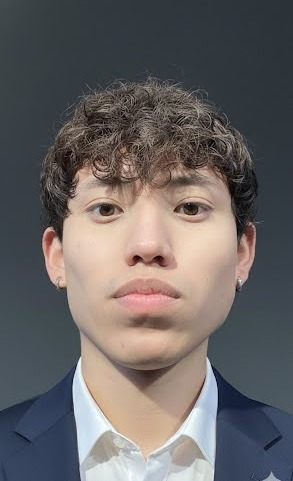
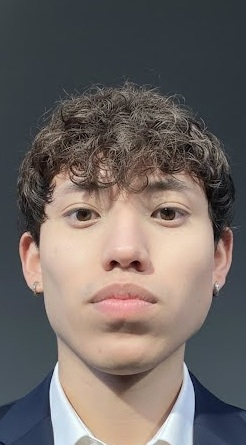
Add files via upload

diff --git a/index.html b/index.html
@@ -1,158 +1,43 @@
-<!DOCTYPE html>
-<html lang="en">
-<head>
-<meta charset="UTF-8">
-<meta name="viewport" content="width=device-width, initial-scale=1.0">
+<!doctype html><html lang="en"><head>
+<meta charset="utf-8"><meta name="viewport" content="width=device-width,initial-scale=1">
 <meta name="description" content="Nestor Gavilanes — Psychology student with experience in AI evaluation, data annotation and academic research.">
 <title>Nestor Gavilanes | Psychology × AI</title>
-<link rel="preconnect" href="https://fonts.googleapis.com">
-<link rel="preconnect" href="https://fonts.gstatic.com" crossorigin>
+<link rel="preconnect" href="https://fonts.googleapis.com"><link rel="preconnect" href="https://fonts.gstatic.com" crossorigin>
 <link href="https://fonts.googleapis.com/css2?family=DM+Sans:wght@400;500;600;700&family=Space+Grotesk:wght@500;600;700&display=swap" rel="stylesheet">
-<link rel="stylesheet" href="style.css">
-</head>
-<body>
-<a class="skip" href="#main">Skip to content</a>
+<link rel="stylesheet" href="style.css"></head><body>
+<header class="nav"><a class="brand" href="#home">NG<span>.</span></a>
+<nav><a href="#about">About</a><a href="#experience">Experience</a><a href="#projects">Projects</a><a href="#skills">Skills</a><a href="#education">Education</a><a href="#contact">Contact</a></nav>
+<div class="navlinks"><a href="https://www.linkedin.com/in/néstor-gavilanes-854b54412" target="_blank">in</a><a href="https://github.com/Nestorrh-dev" target="_blank">GH</a><a href="mailto:nestor.gavilanes.rh@gmail.com">✉</a><a class="navbtn" href="#contact">Let's connect ↗</a></div></header>
+<main>
+<section id="home" class="hero"><div>
+<div class="eyebrow">PSYCHOLOGY × ARTIFICIAL INTELLIGENCE</div>
+<h1>Understanding<br>people.<br><span>Improving AI.</span></h1>
+<p class="lead">I'm Nestor Gavilanes, a Psychology student with experience in AI data annotation, evaluation and academic research. I'm interested in the intersection of human behavior, research and artificial intelligence.</p>
+<div class="actions"><a class="btn primary" href="#projects">View my work →</a><a class="btn secondary" href="#contact">Contact me →</a></div>
+<div class="socials"><a href="https://www.linkedin.com/in/néstor-gavilanes-854b54412" target="_blank">LinkedIn ↗</a><a href="https://github.com/Nestorrh-dev" target="_blank">GitHub ↗</a><a href="mailto:nestor.gavilanes.rh@gmail.com">nestor.gavilanes.rh@gmail.com</a></div>
+</div>
+<aside class="portrait-card"><div class="portrait"><img src="profile.jpg" alt="Professional portrait of Nestor Gavilanes"></div>
+<div class="portrait-info"><small>CURRENT FOCUS</small><h2>Human behavior<br>& AI systems</h2><div class="steps"><div><b>01</b><span>Analyze</span></div><div><b>02</b><span>Evaluate</span></div><div><b>03</b><span>Improve</span></div></div></div></aside></section>
 
-<header class="nav">
-  <a class="brand" href="#top">NG<span>.</span></a>
-  <nav aria-label="Primary">
-    <a href="#about">About</a>
-    <a href="#experience">Experience</a>
-    <a href="#research">Research</a>
-    <a href="#projects">Projects</a>
-    <a href="#skills">Skills</a>
-    <a href="#education">Education</a>
-  </nav>
-  <a class="nav-button" href="mailto:nestor.gavilanes.rh@gmail.com">Let's connect ↗</a>
-</header>
+<section id="about" class="section about"><div class="label">01 — ABOUT ME</div><div><h2>Psychology student<br>& <span>AI enthusiast.</span></h2><p>I'm building a career at the intersection of psychological knowledge, research and technology. My focus is understanding human behavior while developing practical experience with AI systems and evaluation.</p></div></section>
 
-<main id="main">
-<section id="top" class="hero">
-  <div class="hero-copy">
-    <p class="eyebrow">PSYCHOLOGY × ARTIFICIAL INTELLIGENCE</p>
-    <h1>Understanding people.<br><span>Improving AI.</span></h1>
-    <p class="lead">
-      I'm Nestor Gavilanes, a Psychology student at UADE with experience in AI data
-      annotation, evaluation and academic research. I’m interested in the intersection
-      of human behavior, research and artificial intelligence.
-    </p>
-    <div class="actions">
-      <a class="btn primary" href="#projects">View my work</a>
-      <a class="btn secondary" href="mailto:nestor.gavilanes.rh@gmail.com">Contact me</a>
-    </div>
-    <div class="socials">
-      <a href="https://www.linkedin.com/in/néstor-gavilanes-854b54412" target="_blank" rel="noopener">LinkedIn ↗</a>
-      <a href="https://github.com/Nestorrh-dev" target="_blank" rel="noopener">GitHub ↗</a>
-      <a href="mailto:nestor.gavilanes.rh@gmail.com">nestor.gavilanes.rh@gmail.com</a>
-    </div>
-  </div>
+<section id="experience" class="section"><div class="label">02 — EXPERIENCE</div><div class="heading"><h2>People, research<br><span>& AI.</span></h2><p>Real experience presented clearly and without overstating roles or responsibilities.</p></div>
+<div class="cards">
+<article><small>01 · AI · REMOTE</small><h3>AI Data Annotation & Evaluation</h3><p>Experience with structured annotation and evaluation tasks where accuracy, consistency and careful interpretation of guidelines are essential.</p><div class="chips"><i>Annotation</i><i>Evaluation</i><i>Quality</i></div></article>
+<article class="featured"><small>02 · UADE · 1 YEAR</small><h3>Academic Research</h3><p><strong>One year of research experience at my faculty</strong>, participating in academic research activities and developing skills in analysis, information handling and collaborative work.</p><div class="chips"><i>Research</i><i>Analysis</i><i>Academic work</i></div></article>
+<article><small>03 · DEVELOPMENT</small><h3>Continuous Learning</h3><p>Continuing to build knowledge across psychology, research, language, technology and AI while progressing through my degree.</p><div class="chips"><i>Psychology</i><i>AI</i><i>Research</i></div></article>
+</div></section>
 
-  <div class="portrait-wrap" aria-label="Professional portrait of Nestor Gavilanes">
-    <div class="portrait-accent"></div>
-    <div class="portrait">
-      <img src="profile.jpg" alt="Professional portrait of Nestor Gavilanes">
-    </div>
-    <div class="portrait-caption">
-      <span>Psychology</span>
-      <span>AI Evaluation</span>
-      <span>Research</span>
-    </div>
-  </div>
-</section>
+<section id="projects" class="section"><div class="label">03 — PROJECTS</div><div class="heading"><h2>Selected work &<br><span>areas of interest.</span></h2><p>A space designed to grow with new academic, AI and professional projects.</p></div>
+<div class="projects"><article class="large"><b>01</b><div><small>AI · DATA QUALITY</small><h3>AI Evaluation & Annotation</h3><p>Structured assessment of AI outputs and data according to task-specific quality criteria.</p></div></article>
+<article><b>02</b><div><small>PSYCHOLOGY × TECHNOLOGY</small><h3>Human Behavior & AI</h3><p>Exploring how psychological knowledge can contribute to better human-centered AI systems.</p></div></article>
+<article><b>03</b><div><small>ACADEMIC RESEARCH</small><h3>Research Work</h3><p>Academic research experience developed at my faculty over one year.</p></div></article></div>
+<div class="future"><b>FUTURE</b><span>This section can later include professional internships, academic projects and future psychological practice when appropriate.</span></div></section>
 
-<section id="about" class="section about">
-  <div class="section-label">01 — ABOUT</div>
-  <div>
-    <h2>Psychology student<br><span>& AI enthusiast.</span></h2>
-    <p>
-      I’m studying Psychology at UADE while developing practical experience in AI-related
-      work. My interests center on human behavior, cognition, language, research and the
-      quality of interactions between people and intelligent systems.
-    </p>
-  </div>
-</section>
+<section id="skills" class="section skills"><div class="label">04 — SKILLS</div><div class="skillgrid"><div><b>AI Evaluation</b><span>Response quality & consistency</span></div><div><b>Data Annotation</b><span>Structured labeling & guidelines</span></div><div><b>Psychology</b><span>Human behavior & cognition</span></div><div><b>Research</b><span>Academic & analytical work</span></div><div><b>Critical Thinking</b><span>Interpretation & quality checking</span></div><div><b>Communication</b><span>Clear written communication</span></div></div></section>
 
-<section id="experience" class="section">
-  <div class="section-label">02 — EXPERIENCE</div>
-  <div class="cards two">
-    <article class="card">
-      <div class="icon">AI</div>
-      <div>
-        <p class="kicker">REMOTE · AI PROJECTS</p>
-        <h3>AI Data Annotation & Evaluation</h3>
-        <p>Experience working with structured annotation and evaluation tasks where accuracy, consistency and careful interpretation of guidelines are essential.</p>
-      </div>
-      <div class="chips"><span>Annotation</span><span>Evaluation</span><span>Quality</span></div>
-    </article>
+<section id="education" class="section"><div class="label">05 — EDUCATION</div><div class="edu"><div><small>UNIVERSIDAD ARGENTINA DE LA EMPRESA</small><h2>Psychology</h2><p>Undergraduate student · Argentina</p></div><b>UADE</b></div></section>
 
-    <article id="research" class="card">
-      <div class="icon">R</div>
-      <div>
-        <p class="kicker">UADE · FACULTY RESEARCH</p>
-        <h3>Research Experience</h3>
-        <p><strong>1 year of research experience at my faculty</strong>, participating in academic research activities and developing skills in analysis, information handling and collaborative work.</p>
-      </div>
-      <div class="chips"><span>Research</span><span>Analysis</span><span>Academic Work</span></div>
-    </article>
-  </div>
-</section>
-
-<section id="projects" class="section">
-  <div class="section-label">03 — PROJECTS</div>
-  <div class="section-head">
-    <h2>Selected work & areas of interest.</h2>
-    <p>Focused on practical work where psychology, research and AI can meet.</p>
-  </div>
-  <div class="project-grid">
-    <article class="project">
-      <span>01</span><div><p class="kicker">AI · DATA QUALITY</p><h3>AI Evaluation & Annotation</h3><p>Structured assessment of AI outputs and data according to task-specific quality criteria.</p></div>
-    </article>
-    <article class="project">
-      <span>02</span><div><p class="kicker">PSYCHOLOGY × TECHNOLOGY</p><h3>Human Behavior & AI</h3><p>Exploring how psychological knowledge can inform better human-centered AI systems.</p></div>
-    </article>
-    <article class="project">
-      <span>03</span><div><p class="kicker">RESEARCH</p><h3>Academic Research</h3><p>One year of faculty research experience supporting academic work and analytical processes.</p></div>
-    </article>
-  </div>
-</section>
-
-<section id="skills" class="section skills">
-  <div class="section-label">04 — SKILLS</div>
-  <div class="skill-grid">
-    <div><b>AI Evaluation</b><span>Response quality & consistency</span></div>
-    <div><b>Data Annotation</b><span>Structured labeling & guidelines</span></div>
-    <div><b>Psychology</b><span>Human behavior & cognition</span></div>
-    <div><b>Research</b><span>Academic & analytical work</span></div>
-    <div><b>Critical Thinking</b><span>Interpretation & quality checking</span></div>
-    <div><b>Communication</b><span>Clear written communication</span></div>
-  </div>
-</section>
-
-<section id="education" class="section education">
-  <div class="section-label">05 — EDUCATION</div>
-  <div class="education-card">
-    <div>
-      <p class="kicker">UNIVERSIDAD ARGENTINA DE LA EMPRESA</p>
-      <h2>Psychology</h2>
-      <p>Undergraduate student · Argentina</p>
-    </div>
-    <strong>UADE</strong>
-  </div>
-</section>
-
-<section id="contact" class="contact">
-  <p class="eyebrow">06 — CONTACT</p>
-  <h2>Let's work together.</h2>
-  <p>Open to opportunities in AI evaluation, data annotation, research and psychology-related projects.</p>
-  <div class="actions center">
-    <a class="btn primary" href="mailto:nestor.gavilanes.rh@gmail.com">Email me ↗</a>
-    <a class="btn secondary" href="https://www.linkedin.com/in/néstor-gavilanes-854b54412" target="_blank" rel="noopener">LinkedIn ↗</a>
-    <a class="btn secondary" href="https://github.com/Nestorrh-dev" target="_blank" rel="noopener">GitHub ↗</a>
-  </div>
-</section>
-</main>
-
-<footer><span>© <span id="year"></span> Nestor Gavilanes</span><span>Psychology × AI</span></footer>
-<script>document.getElementById("year").textContent=new Date().getFullYear();</script>
-</body>
-</html>
+<section id="contact" class="contact"><div class="eyebrow">06 — CONTACT</div><h2>Let's work together.</h2><p>Open to opportunities in AI evaluation, data annotation, research and psychology-related projects.</p><div class="actions center"><a class="btn primary" href="mailto:nestor.gavilanes.rh@gmail.com">Email me ↗</a><a class="btn secondary" href="https://www.linkedin.com/in/néstor-gavilanes-854b54412" target="_blank">LinkedIn ↗</a><a class="btn secondary" href="https://github.com/Nestorrh-dev" target="_blank">GitHub ↗</a></div></section>
+</main><footer>© <span id="year"></span> Nestor Gavilanes <span>Psychology × AI</span></footer>
+<script>document.getElementById('year').textContent=new Date().getFullYear()</script></body></html>

diff --git a/style.css b/style.css
@@ -1,14 +1,7 @@
-*{box-sizing:border-box}html{scroll-behavior:smooth}body{margin:0;background:#090a0b;color:#f4f2ed;font-family:"DM Sans",sans-serif;line-height:1.6;overflow-x:hidden}a{color:inherit;text-decoration:none}.skip{position:fixed;top:-60px;left:12px;background:#d8ff55;color:#090a0b;padding:10px;border-radius:8px;z-index:99}.skip:focus{top:12px}
-:root{--bg:#090a0b;--panel:#111314;--line:#282a2c;--muted:#999b98;--accent:#d8ff55;--max:1160px}
-.nav{height:76px;position:sticky;top:0;z-index:20;background:rgba(9,10,11,.9);backdrop-filter:blur(18px);border-bottom:1px solid var(--line);display:flex;align-items:center;justify-content:space-between;padding:0 5vw}.brand{font:700 1.35rem "Space Grotesk";letter-spacing:-.06em}.brand span{color:var(--accent)}.nav nav{display:flex;gap:28px;font-size:.86rem;color:#aaa}.nav nav a:hover{color:#fff}.nav-button{border:1px solid #3a3a3a;border-radius:999px;padding:9px 15px;font-size:.8rem}.nav-button:hover{border-color:var(--accent);color:var(--accent)}
-.hero{max-width:var(--max);margin:auto;min-height:calc(100vh - 76px);padding:80px 5vw;display:grid;grid-template-columns:minmax(0,1.15fr) minmax(290px,.75fr);gap:70px;align-items:center}.eyebrow,.section-label,.kicker{color:var(--accent);font-size:.7rem;letter-spacing:.15em;font-weight:700}.hero h1{font:700 clamp(3.6rem,7vw,6.5rem)/.93 "Space Grotesk";letter-spacing:-.07em;margin:18px 0 28px}.hero h1 span,.about h2 span{color:var(--accent)}.lead{color:var(--muted);font-size:1.05rem;max-width:650px}.actions{display:flex;gap:12px;flex-wrap:wrap;margin:28px 0}.btn{display:inline-flex;align-items:center;justify-content:center;border-radius:999px;padding:12px 20px;font-weight:700;font-size:.88rem;transition:.2s}.primary{background:var(--accent);color:#080909}.primary:hover{transform:translateY(-2px)}.secondary{border:1px solid #3a3a3a}.secondary:hover{border-color:#777;transform:translateY(-2px)}.socials{display:flex;gap:18px;flex-wrap:wrap;color:#aaa;font-size:.8rem}.socials a:hover{color:var(--accent)}
-.portrait-wrap{position:relative;justify-self:end;width:min(100%,350px);padding:14px}.portrait-accent{position:absolute;inset:7% 5% 3% 10%;border-radius:30px;background:var(--accent);opacity:.08;filter:blur(18px)}.portrait{position:relative;z-index:1;border:1px solid #36383a;border-radius:26px;overflow:hidden;background:#17191a;aspect-ratio:4/5;box-shadow:0 22px 70px rgba(0,0,0,.4)}.portrait img{width:100%;height:100%;display:block;object-fit:cover;object-position:center 28%;filter:saturate(.92) contrast(1.02)}.portrait-caption{position:relative;z-index:2;margin:-22px 12px 0;padding:14px 15px;border:1px solid var(--line);background:rgba(15,16,17,.92);backdrop-filter:blur(12px);border-radius:14px;display:flex;gap:12px;justify-content:space-between;font-size:.68rem;color:#aaa}.portrait-caption span:first-child{color:var(--accent)}
-.section{max-width:var(--max);margin:auto;padding:110px 5vw;border-top:1px solid var(--line)}.about{display:grid;grid-template-columns:.65fr 1.35fr;gap:80px}.about h2,.section-head h2{font:600 clamp(2.5rem,5vw,4.4rem)/1 "Space Grotesk";letter-spacing:-.06em;margin:0 0 24px}.about p{color:var(--muted);font-size:1.03rem;max-width:760px}
-.cards{display:grid;grid-template-columns:repeat(2,minmax(0,1fr));gap:14px;margin-top:38px}.card{border:1px solid var(--line);border-radius:20px;background:var(--panel);padding:28px;min-height:320px;display:flex;flex-direction:column;justify-content:space-between}.icon{width:42px;height:42px;border:1px solid #4b4d4f;border-radius:12px;display:grid;place-items:center;color:var(--accent);font-weight:700}.card h3{font:600 2rem/1.05 "Space Grotesk";margin:10px 0}.card p{color:var(--muted)}.chips{display:flex;gap:7px;flex-wrap:wrap}.chips span{border:1px solid var(--line);padding:5px 9px;border-radius:999px;font-size:.68rem;color:#aaa}
-.section-head{display:flex;justify-content:space-between;align-items:end;gap:30px;margin:10px 0 38px}.section-head p{color:var(--muted);max-width:300px}.project-grid{display:grid;grid-template-columns:repeat(2,minmax(0,1fr));gap:12px}.project{border:1px solid var(--line);border-radius:20px;background:var(--panel);min-height:250px;padding:26px;display:flex;justify-content:space-between;gap:20px}.project:first-child{grid-column:span 2;min-height:290px;background:linear-gradient(135deg,#171a17,#101112)}.project>span{color:var(--accent);font-size:.7rem}.project h3{font:600 1.9rem "Space Grotesk";margin:8px 0}.project p:not(.kicker){color:var(--muted);max-width:620px}
-.skills{display:grid;grid-template-columns:.65fr 1.35fr;gap:80px}.skill-grid{display:grid;grid-template-columns:repeat(2,minmax(0,1fr));border-top:1px solid var(--line)}.skill-grid div{padding:20px 8px;border-bottom:1px solid var(--line);display:flex;flex-direction:column}.skill-grid b{font-size:.95rem}.skill-grid span{font-size:.78rem;color:#777;margin-top:3px}
-.education-card{border:1px solid var(--line);background:var(--panel);border-radius:20px;padding:30px;display:flex;align-items:center;justify-content:space-between;gap:30px}.education-card h2{font:600 2.5rem "Space Grotesk";margin:6px 0}.education-card p{color:var(--muted);margin:0}.education-card>strong{color:var(--accent)}
-.contact{max-width:var(--max);margin:auto;text-align:center;padding:130px 5vw}.contact h2{font:600 clamp(3rem,7vw,6rem)/1 "Space Grotesk";letter-spacing:-.06em;margin:15px 0}.contact>p:not(.eyebrow){color:var(--muted);max-width:570px;margin:auto}.center{justify-content:center}
-footer{max-width:var(--max);margin:auto;padding:25px 5vw 40px;border-top:1px solid var(--line);display:flex;justify-content:space-between;color:#666;font-size:.75rem}
-@media(max-width:850px){.nav nav{display:none}.hero,.about,.skills{grid-template-columns:1fr;gap:50px}.hero{min-height:auto;padding-top:70px}.portrait-wrap{justify-self:center;width:min(100%,310px)}.cards,.project-grid{grid-template-columns:1fr}.project:first-child{grid-column:span 1}.section-head{display:block}.skill-grid{grid-template-columns:1fr}}
-@media(max-width:520px){.nav{padding:0 20px}.nav-button{display:none}.hero,.section{padding-left:20px;padding-right:20px}.hero{padding-top:55px}.hero h1{font-size:3.45rem}.lead{font-size:.98rem}.portrait-wrap{width:min(78vw,285px)}.portrait-caption{font-size:.61rem;gap:8px}.cards{gap:10px}.card{padding:23px;min-height:300px}.project{padding:23px}.education-card{align-items:flex-start;flex-direction:column}.contact{padding-top:100px}.socials{font-size:.72rem;gap:12px}footer{margin:0 20px;padding-left:0;padding-right:0}}
+*{box-sizing:border-box}html{scroll-behavior:smooth}:root{--bg:#090a0b;--panel:#111314;--line:#292c2e;--text:#f3f1ec;--muted:#999c99;--a:#d8ff55;--max:1200px}body{margin:0;background:var(--bg);color:var(--text);font-family:"DM Sans",sans-serif;line-height:1.55;overflow-x:hidden}a{color:inherit;text-decoration:none}.nav{height:76px;position:sticky;top:0;z-index:10;display:flex;align-items:center;justify-content:space-between;padding:0 clamp(20px,5vw,70px);background:rgba(9,10,11,.9);backdrop-filter:blur(18px);border-bottom:1px solid var(--line)}.brand{font:700 1.35rem "Space Grotesk";letter-spacing:-.06em}.brand span,.hero h1 span,h2 span{color:var(--a)}nav{display:flex;gap:24px;color:#aaa;font-size:.82rem}nav a:hover{color:#fff}.navlinks{display:flex;gap:10px;align-items:center}.navlinks>a:not(.navbtn){padding:7px;color:#ccc;font-size:.75rem}.navlinks>a:hover{color:var(--a)}.navbtn{border:1px solid #3b3d3f;border-radius:999px;padding:9px 16px;font-size:.78rem}.navbtn:hover{border-color:var(--a);color:var(--a)}
+.hero{max-width:var(--max);min-height:calc(100vh - 76px);margin:auto;padding:78px clamp(20px,5vw,70px);display:grid;grid-template-columns:minmax(0,1.08fr) minmax(300px,.72fr);gap:70px;align-items:center}.eyebrow,.label,.portrait-info small,.cards small,.projects small,.edu small{color:var(--a);font-size:.67rem;font-weight:700;letter-spacing:.14em}.hero h1{font:700 clamp(3.8rem,6.8vw,6.8rem)/.92 "Space Grotesk";letter-spacing:-.075em;margin:20px 0 28px}.lead{max-width:670px;color:var(--muted);font-size:1.02rem}.actions{display:flex;gap:12px;flex-wrap:wrap;margin:27px 0}.btn{border-radius:999px;padding:12px 20px;font-size:.85rem;font-weight:700;display:inline-flex;gap:10px}.primary{background:var(--a);color:#090a0b}.secondary{border:1px solid #3a3c3d}.primary:hover,.secondary:hover{transform:translateY(-2px)}.socials{display:flex;flex-wrap:wrap;gap:18px;color:#a8aaa8;font-size:.76rem}.socials a:hover{color:var(--a)}
+.portrait-card{width:min(100%,360px);justify-self:end;border:1px solid #36393a;border-radius:25px;overflow:hidden;background:#111314;box-shadow:0 25px 80px #0008}.portrait{height:385px;overflow:hidden;background:#1a1c1e}.portrait img{width:100%;height:100%;object-fit:cover;object-position:center 27%;display:block}.portrait-info{padding:19px 21px}.portrait-info h2{font:600 1.45rem/1.1 "Space Grotesk";margin:8px 0 21px}.steps{display:grid;grid-template-columns:repeat(3,1fr);border-top:1px solid var(--line);padding-top:14px}.steps div{display:flex;flex-direction:column}.steps div+div{border-left:1px solid var(--line);padding-left:14px}.steps b{color:var(--a);font-size:.74rem}.steps span{font-size:.72rem;color:#aaa}
+.section{max-width:var(--max);margin:auto;padding:110px clamp(20px,5vw,70px);border-top:1px solid var(--line)}.about{display:grid;grid-template-columns:.65fr 1.35fr;gap:80px}.about h2,.heading h2{font:600 clamp(2.7rem,5vw,4.5rem)/.98 "Space Grotesk";letter-spacing:-.065em;margin:0 0 24px}.about p,.heading p{max-width:700px;color:var(--muted)}.heading{display:flex;justify-content:space-between;gap:40px;align-items:end;margin:14px 0 38px}.heading p{max-width:320px}.cards{display:grid;grid-template-columns:repeat(3,1fr);gap:13px}.cards article{min-height:350px;border:1px solid var(--line);border-radius:20px;background:var(--panel);padding:25px;display:flex;flex-direction:column;justify-content:space-between}.cards .featured{background:linear-gradient(145deg,#171a16,#111314);border-color:#3b4031}.cards h3{font:600 1.65rem/1.08 "Space Grotesk";margin:14px 0}.cards p,.projects p{color:var(--muted);font-size:.87rem}.chips{display:flex;flex-wrap:wrap;gap:7px}.chips i{font-style:normal;border:1px solid var(--line);border-radius:999px;padding:5px 9px;color:#aaa;font-size:.63rem}
+.projects{display:grid;grid-template-columns:repeat(2,1fr);gap:13px}.projects article{min-height:250px;border:1px solid var(--line);border-radius:20px;background:var(--panel);padding:26px;display:flex;gap:22px}.projects .large{grid-column:span 2;min-height:285px;background:linear-gradient(135deg,#171a17,#101112)}.projects article>b{color:var(--a);font-size:.7rem}.projects h3{font:600 1.85rem "Space Grotesk";margin:8px 0}.future{margin-top:13px;border:1px dashed #343638;border-radius:15px;padding:15px 18px;display:flex;gap:20px;color:#818381;font-size:.76rem}.future b{color:var(--a);font-size:.64rem;letter-spacing:.13em}
+.skills{display:grid;grid-template-columns:.65fr 1.35fr;gap:80px}.skillgrid{display:grid;grid-template-columns:repeat(2,1fr);border-top:1px solid var(--line)}.skillgrid div{padding:19px 8px;border-bottom:1px solid var(--line);display:flex;flex-direction:column}.skillgrid span{font-size:.74rem;color:#777}.edu{border:1px solid var(--line);border-radius:20px;background:var(--panel);padding:29px;display:flex;justify-content:space-between;align-items:center}.edu h2{font:600 2.5rem "Space Grotesk";margin:6px 0}.edu p{margin:0;color:var(--muted)}.edu>b{color:var(--a)}.contact{max-width:var(--max);margin:auto;text-align:center;padding:130px clamp(20px,5vw,70px)}.contact h2{font:600 clamp(3.2rem,7vw,6.4rem)/.95 "Space Grotesk";letter-spacing:-.07em;margin:16px 0}.contact>p:not(.eyebrow){max-width:600px;margin:auto;color:var(--muted)}.center{justify-content:center}footer{max-width:var(--max);margin:auto;border-top:1px solid var(--line);padding:25px clamp(20px,5vw,70px) 40px;display:flex;justify-content:space-between;color:#626562;font-size:.72rem}
+@media(max-width:1050px){nav{gap:13px}.navlinks>a:not(.navbtn){display:none}.hero{gap:45px}.portrait-card{width:min(100%,330px)}.portrait{height:350px}}@media(max-width:820px){.nav{height:68px}.nav nav{display:none}.hero{grid-template-columns:1fr;min-height:auto;gap:50px;padding-top:58px}.portrait-card{justify-self:center;width:min(100%,315px)}.portrait{height:340px}.about,.skills{grid-template-columns:1fr;gap:40px}.cards{grid-template-columns:1fr}.heading{display:block}.heading p{margin-top:18px}.projects{grid-template-columns:1fr}.projects .large{grid-column:span 1}}@media(max-width:520px){.nav{padding:0 20px}.navbtn{display:none}.hero,.section,.contact{padding-left:20px;padding-right:20px}.hero{padding-top:45px}.hero h1{font-size:3.5rem}.lead{font-size:.94rem}.socials{font-size:.69rem;gap:11px}.portrait-card{width:min(88vw,295px)}.portrait{height:325px}.cards article{min-height:315px}.projects article,.projects .large{min-height:235px;padding:23px}.future{flex-direction:column;gap:7px}.skillgrid{grid-template-columns:1fr}.edu{align-items:flex-start;flex-direction:column;gap:25px}footer{margin:0 20px;padding-left:0;padding-right:0}}
